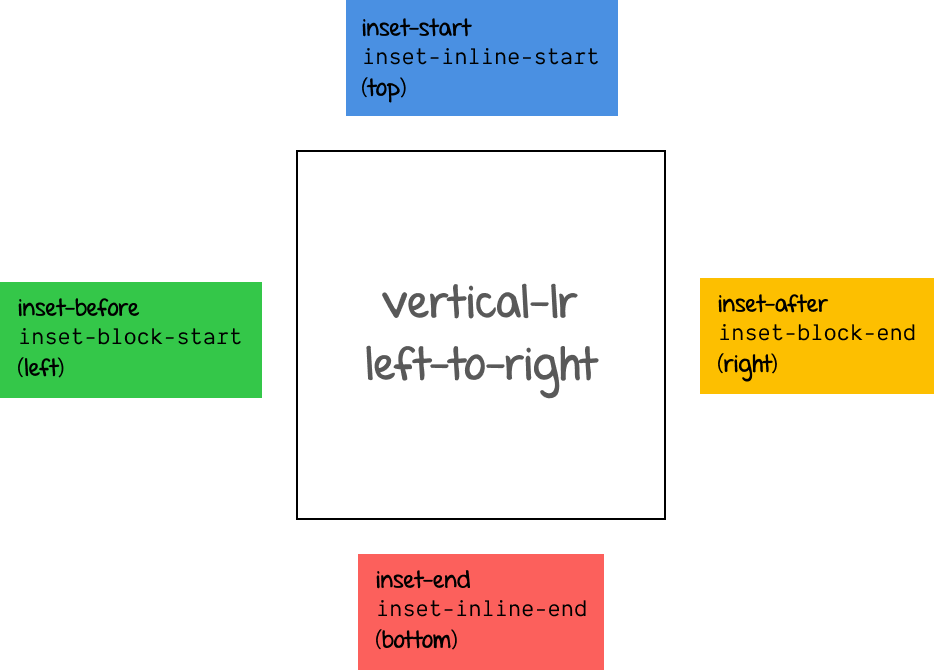
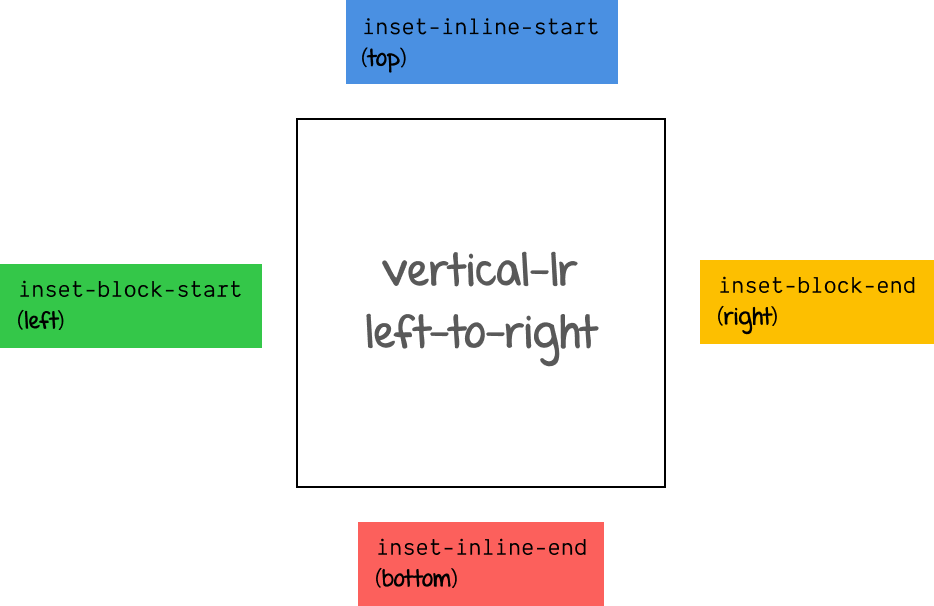
Update positioning post

diff --git a/_posts/2019-12-18-understanding-positioning-in-css.md b/_posts/2019-12-18-understanding-positioning-in-css.md
@@ -167,45 +167,45 @@ The matrix of writing directions and their corresponding values for a box's phys
       <tr>
         <td style="border:1px solid" rowspan="4"><div style="writing-mode:vertical-rl;transform:rotate(180deg);font-weight:bold">Edge</div></td>
         <td style="border:1px solid"><div style="writing-mode:vertical-rl;transform:rotate(180deg);font-weight:bold;padding:0.5em 0">top</div></td>
-        <td style="border:1px solid">inset-before</td>
-        <td style="border:1px solid">inset-before</td>
-        <td style="border:1px solid">inset-start</td>
-        <td style="border:1px solid">inset-end</td>
-        <td style="border:1px solid">inset-start</td>
-        <td style="border:1px solid">inset-end</td>
+        <td style="border:1px solid">inset-block-start</td>
+        <td style="border:1px solid">inset-block-start</td>
+        <td style="border:1px solid">inset-inline-start</td>
+        <td style="border:1px solid">inset-inline-end</td>
+        <td style="border:1px solid">inset-inline-start</td>
+        <td style="border:1px solid">inset-inline-end</td>
       </tr>
       <tr>
         <td><div style="writing-mode:vertical-rl;transform:rotate(180deg);font-weight:bold;padding:0.5em 0">right</div></td>
-        <td style="border:1px solid">inset-end</td>
-        <td style="border:1px solid">inset-start</td>
-        <td style="border:1px solid">inset-before</td>
-        <td style="border:1px solid">inset-before</td>
-        <td style="border:1px solid">inset-after</td>
-        <td style="border:1px solid">inset-after</td>
+        <td style="border:1px solid">inset-inline-end</td>
+        <td style="border:1px solid">inset-inline-start</td>
+        <td style="border:1px solid">inset-block-start</td>
+        <td style="border:1px solid">inset-block-start</td>
+        <td style="border:1px solid">inset-block-end</td>
+        <td style="border:1px solid">inset-block-end</td>
       </tr>
       <tr>
         <td style="border:1px solid"><div style="writing-mode:vertical-rl;transform:rotate(180deg);font-weight:bold;padding:0.5em 0">bottom</div></td>
-        <td style="border:1px solid">inset-after</td>
-        <td style="border:1px solid">inset-after</td>
-        <td style="border:1px solid">inset-end</td>
-        <td style="border:1px solid">inset-start</td>
-        <td style="border:1px solid">inset-end</td>
-        <td style="border:1px solid">inset-start</td>
+        <td style="border:1px solid">inset-block-end</td>
+        <td style="border:1px solid">inset-block-end</td>
+        <td style="border:1px solid">inset-inline-end</td>
+        <td style="border:1px solid">inset-inline-start</td>
+        <td style="border:1px solid">inset-inline-end</td>
+        <td style="border:1px solid">inset-inline-start</td>
       </tr>
       <tr>
         <td style="border:1px solid"><div style="writing-mode:vertical-rl;transform:rotate(180deg);font-weight:bold;padding:0.5em 0">left</div></td>
-        <td style="border:1px solid">inset-start</td>
-        <td style="border:1px solid">inset-end</td>
-        <td style="border:1px solid">inset-after</td>
-        <td style="border:1px solid">inset-after</td>
-        <td style="border:1px solid">inset-before</td>
-        <td style="border:1px solid">inset-before</td>
+        <td style="border:1px solid">inset-inline-start</td>
+        <td style="border:1px solid">inset-inline-end</td>
+        <td style="border:1px solid">inset-block-end</td>
+        <td style="border:1px solid">inset-block-end</td>
+        <td style="border:1px solid">inset-block-start</td>
+        <td style="border:1px solid">inset-block-start</td>
       </tr>
     </tbody>
   </table>
 </div>
 
-The logical top of a container uses `inset-before`, while the logical bottom of a container uses `inset-after`. The logical left of a container uses `inset-start`, while the logical right of a container uses `inset-end`.
+The logical top of a container uses `inset-block-start`, while the logical bottom of a container uses `inset-block-end`. The logical left of a container uses `inset-inline-start`, while the logical right of a container uses `inset-inline-end`.
 
 This is probably easier to visualise with a diagram (or live code if your browser supports it). The following is for `horizontal-tb`:
 
